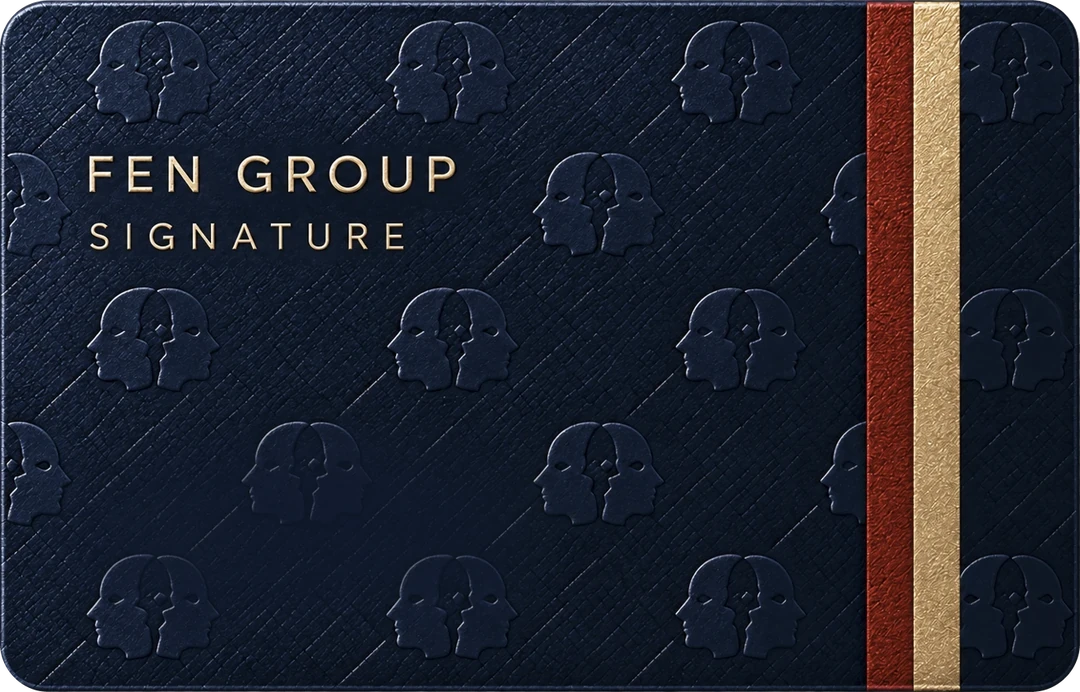
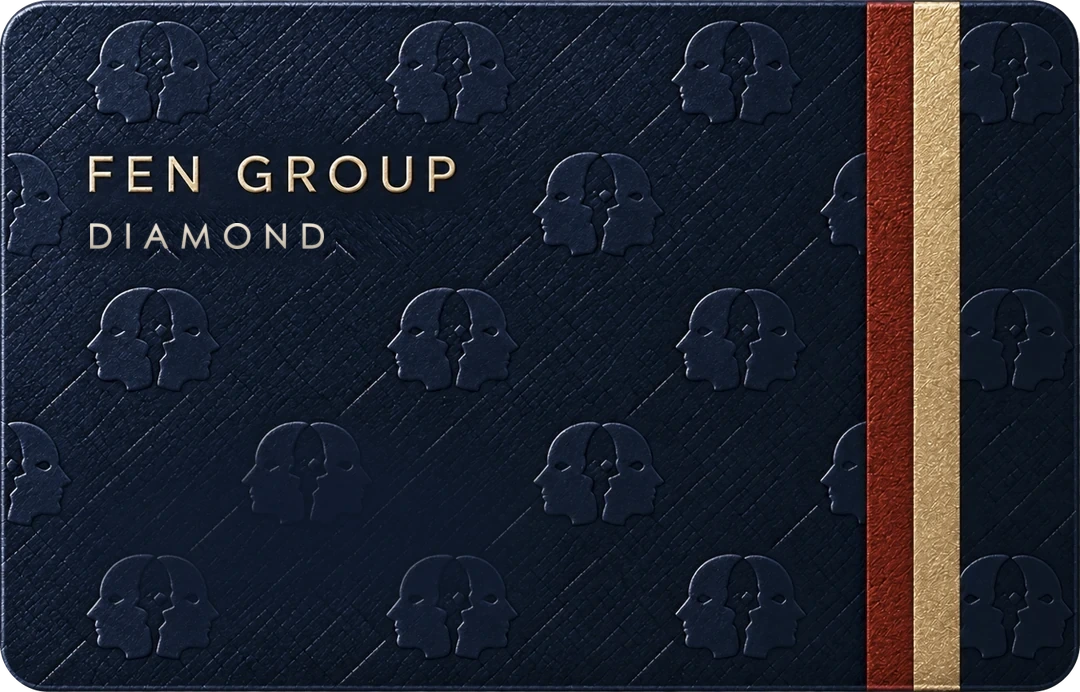
CRM tiers: Silver / Gold (8%, 20tr, bill 5tr) / Diamond (15%, 40tr, bill 10tr); card art Gold + Diamond; v2.11.0

Changed region(s): [[0.0611, 0.3035, 0.3972, 0.3642]]

diff --git a/services/crmService.js b/services/crmService.js
@@ -10,20 +10,21 @@ const PARSE_VERSION = 2;
 
 const DEFAULT_SETTINGS = {
   brand: 'FEN IZAKAYA',
-  // Chính sách hạng thành viên FEN (v4): Silver (cơ bản, khi để lại thông tin) -> Diamond -> Signature.
+  // Chính sách hạng thành viên FEN (v5): Silver (cơ bản, khi để lại thông tin) -> Gold (Vàng) -> Diamond (Kim cương).
+  // Mã hạng (key) giữ nguyên 'diamond' (= Gold) và 'luxury' (= Diamond) để không mất hạng đã gán tay cho khách.
   // Hạng chỉ xét theo TỔNG CHI TIÊU tại quán trong 12 tháng gần nhất (không xét theo điểm tích lũy); khách mới có 1 hóa đơn lớn được xếp hạng ngay.
-  policyVersion: 4,
+  policyVersion: 5,
   tierPeriod: 'rolling12',
   cardMonths: 12, // thẻ có hiệu lực 12 tháng kể từ ngày phát sinh
   expiryWarnDays: 30, // báo trước khi hạng sắp hết hạn
   tiers: [
-    { key: 'silver', name: 'FEN SILVER MEMBER', min: 0, newBillMin: 0, discountPct: 0, birthdayVoucher: 0, perks: ['Hạng thành viên cơ bản: khách để lại thông tin (số điện thoại) là có thẻ', 'Cập nhật chương trình và ưu đãi mới của FEN', 'Chi tiêu tích lũy để nâng lên hạng Diamond và Signature'] },
-    { key: 'diamond', name: 'FEN DIAMOND MEMBER', min: 15000000, newBillMin: 3000000, discountPct: 8, birthdayVoucher: 500000, perks: ['Giảm giá 8% trên tổng hóa đơn (không áp dụng đồng thời với các CTKM, combo khuyến mãi khác)', 'Voucher sinh nhật 500.000đ + tặng bánh sinh nhật (hiệu lực 30 ngày, tặng 1 lần/năm)', 'Ưu tiên đặt bàn', 'Ưu đãi riêng theo từng tháng'] },
-    { key: 'luxury', name: 'FEN SIGNATURE MEMBER', min: 35000000, newBillMin: 9000000, discountPct: 15, birthdayVoucher: 1000000, perks: ['Giảm giá 15% trên tổng hóa đơn (không áp dụng đồng thời với các CTKM, combo khuyến mãi khác)', 'Voucher sinh nhật 1.000.000đ + tặng bánh sinh nhật (hiệu lực 30 ngày, tặng 1 lần/năm)', 'Quà tặng đặc biệt hàng năm', 'Giữ bàn ưu tiên', 'Ưu tiên trải nghiệm món mới', 'Ưu tiên khu vực chỗ ngồi đẹp trong các dịp lễ cao điểm'] }
+    { key: 'silver', name: 'FEN SILVER MEMBER', min: 0, newBillMin: 0, discountPct: 0, birthdayVoucher: 0, perks: ['Hạng thành viên cơ bản: khách để lại thông tin (họ tên, số điện thoại) là có thẻ', 'Cập nhật chương trình và ưu đãi mới của FEN', 'Chi tiêu tích lũy để nâng lên hạng Gold và Diamond'] },
+    { key: 'diamond', name: 'FEN GOLD MEMBER', min: 20000000, newBillMin: 5000000, discountPct: 8, birthdayVoucher: 500000, perks: ['Chiết khấu trực tiếp 8% trên tổng hóa đơn (không áp dụng đồng thời với các CTKM, combo khuyến mãi khác)', 'Sinh nhật tặng voucher 500.000đ + tặng bánh sinh nhật (hiệu lực 30 ngày, tặng 1 lần/năm)', 'Ưu tiên đặt bàn', 'Ưu đãi riêng theo từng tháng'] },
+    { key: 'luxury', name: 'FEN DIAMOND MEMBER', min: 40000000, newBillMin: 10000000, discountPct: 15, birthdayVoucher: 1000000, perks: ['Chiết khấu trực tiếp 15% trên tổng hóa đơn (không áp dụng đồng thời với các CTKM, combo khuyến mãi khác)', 'Sinh nhật tặng voucher 1.000.000đ + tặng bánh sinh nhật (hiệu lực 30 ngày, tặng 1 lần/năm)', 'Quà Tết (áp dụng khi Fen sản xuất được thẻ)', 'Giữ bàn ưu tiên', 'Ưu tiên trải nghiệm món mới', 'Ưu tiên khu vực chỗ ngồi đẹp trong các dịp lễ cao điểm'] }
   ],
   // Điều kiện sử dụng ưu đãi (hiển thị trên thẻ thành viên)
   terms: [
-    'Đã áp dụng giảm giá thành viên (8% / 15%) thì không áp dụng đồng thời với các chương trình khuyến mãi, combo khuyến mãi khác.',
+    'Đã áp dụng chiết khấu thành viên (8% / 15%) thì không áp dụng đồng thời với các chương trình khuyến mãi, combo khuyến mãi khác.',
     'Voucher sinh nhật chỉ tặng 1 lần/năm, hiệu lực 30 ngày, không ràng buộc điều kiện áp dụng khác.',
     'Hạng thành viên chỉ xét theo tổng chi tiêu tại quán (không xét theo điểm tích lũy): đủ mức thì nâng hạng, không duy trì đủ mức thì hạ hạng.'
   ],

diff --git a/components/crm/CrmSettings.jsx b/components/crm/CrmSettings.jsx
@@ -27,7 +27,7 @@ export default function CrmSettings({ meta, reloadMeta }) {
   return (
     <div className="space-y-3">
       <Card title="Hạng thẻ thành viên">
-        <p className="text-sm text-gray-600 mb-3">Chính sách hạng FEN: hạng chỉ xét theo <b>tổng chi tiêu tại quán trong 12 tháng gần nhất</b> (không xét theo điểm tích lũy) để nâng hoặc hạ hạng. Hạng đầu tiên (0 đ) là hạng cơ bản <b>Silver</b>: khách để lại thông tin là có thẻ. Khách có <b>một hóa đơn trên mức "hóa đơn đầu tiên"</b> của hạng nào thì được xếp thẳng hạng đó (hiệu lực 12 tháng). Không duy trì đủ chi tiêu thì hạ xuống hạng thấp hơn (Signature → Diamond → Silver), không xóa thẻ. Khách VIP chiến lược / Celeb được xét chọn thủ công ở hồ sơ khách.</p>
+        <p className="text-sm text-gray-600 mb-3">Chính sách hạng FEN: hạng chỉ xét theo <b>tổng chi tiêu tại quán trong 12 tháng gần nhất</b> (không xét theo điểm tích lũy) để nâng hoặc hạ hạng. Hạng đầu tiên (0 đ) là hạng cơ bản <b>Silver</b>: khách để lại thông tin là có thẻ. Khách có <b>một hóa đơn trên mức "hóa đơn đầu tiên"</b> của hạng nào thì được xếp thẳng hạng đó (hiệu lực 12 tháng). Không duy trì đủ chi tiêu thì hạ xuống hạng thấp hơn (Diamond → Gold → Silver), không xóa thẻ. Khách VIP chiến lược / Celeb được xét chọn thủ công ở hồ sơ khách.</p>
         <div className="grid grid-cols-2 gap-3 mb-3" style={{ maxWidth: 520 }}>
           <Field label="Thẻ có hiệu lực (tháng)"><input type="number" value={s.cardMonths} onChange={(e) => setS({ ...s, cardMonths: Number(e.target.value) })} className={inputCls} /></Field>
           <Field label="Báo trước khi hết hạn (ngày)"><input type="number" value={s.expiryWarnDays} onChange={(e) => setS({ ...s, expiryWarnDays: Number(e.target.value) })} className={inputCls} /></Field>

diff --git a/components/crm/ui.jsx b/components/crm/ui.jsx
@@ -24,7 +24,7 @@ export async function api(method, url, body) {
   return j;
 }
 
-export const TIER_COLORS = { member: '#64748b', silver: '#94a3b8', gold: '#d97706', diamond: '#2563eb', luxury: '#111827' };
+export const TIER_COLORS = { member: '#64748b', silver: '#94a3b8', gold: '#d97706', diamond: '#b45309', luxury: '#1e3a8a' };
 export const SEGMENT_COLORS = { new: '#0ea5e9', loyal: '#16a34a', regular: '#64748b', at_risk: '#f59e0b', lost: '#dc2626', none: '#cbd5e1' };
 export const STAGE_LABEL = { new: 'Mới', consulting: 'Đang tư vấn', quoted: 'Đã báo giá', deposit: 'Đã đặt cọc', won: 'Thành công', lost: 'Thất bại' };
 export const STAGE_COLOR = { new: '#64748b', consulting: '#0ea5e9', quoted: '#8b5cf6', deposit: '#f59e0b', won: '#16a34a', lost: '#dc2626' };

diff --git a/components/crm/MemberCard.jsx b/components/crm/MemberCard.jsx
@@ -10,7 +10,7 @@ const THEMES = {
 };
 const themeOf = (key) => THEMES[key] || THEMES.member;
 
-// Mẫu thẻ thiết kế riêng của FEN GROUP (ảnh trong /public/cards). Hạng Diamond dùng mẫu GOLD, hạng Signature dùng mẫu SIGNATURE.
+// Mẫu thẻ thiết kế riêng của FEN GROUP (ảnh trong /public/cards). Hạng Gold (mã 'diamond') dùng mẫu GOLD, hạng Diamond (mã 'luxury') dùng mẫu in chữ DIAMOND trên nền xanh navy.
 // Ảnh đã có sẵn thương hiệu + tên hạng; app chỉ chồng thêm thông tin hội viên lên một mảng mờ ở góc dưới bên trái.
 const ART = {
   // shadow: viền chữ nhẹ để đọc rõ trên họa tiết nổi; sh = màu bóng cho bản vẽ canvas

diff --git a/components/version.js b/components/version.js
@@ -1,3 +1,3 @@
 // Số phiên bản hiển thị trên app (sửa tại đây khi phát hành bản mới)
-export const APP_VERSION = '2.10.3';
+export const APP_VERSION = '2.11.0';
 export const APP_BUILD_DATE = '20/10/2026';
